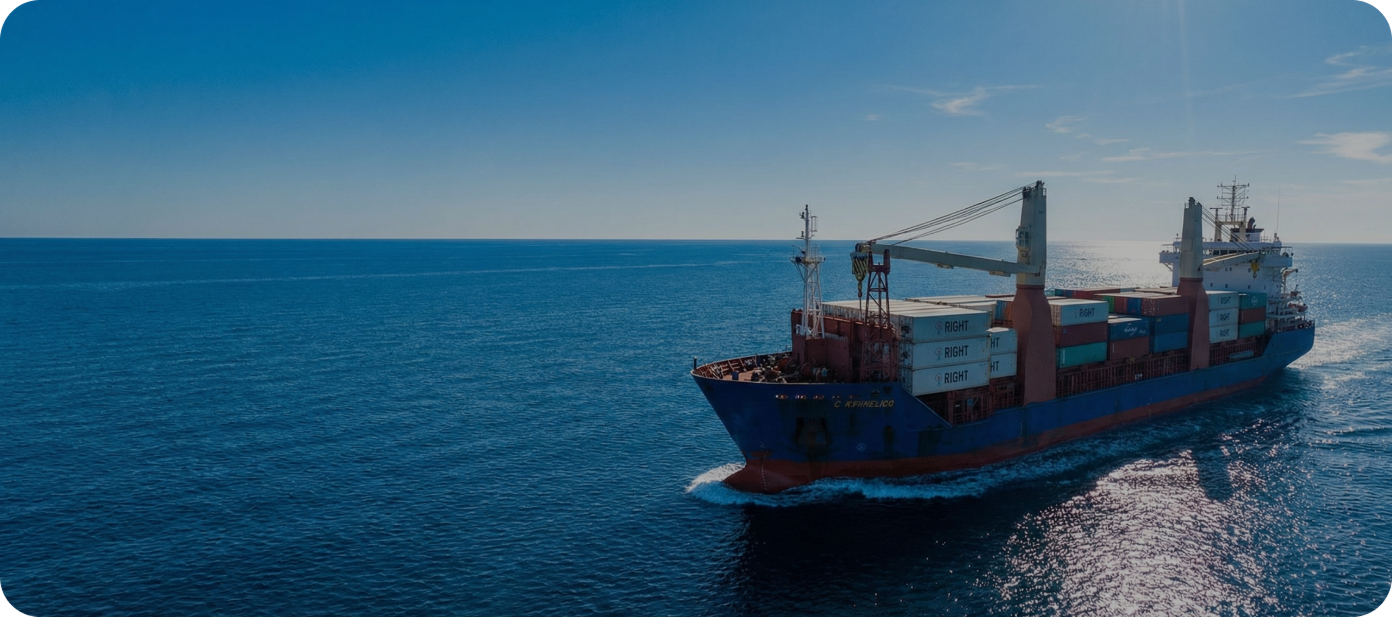
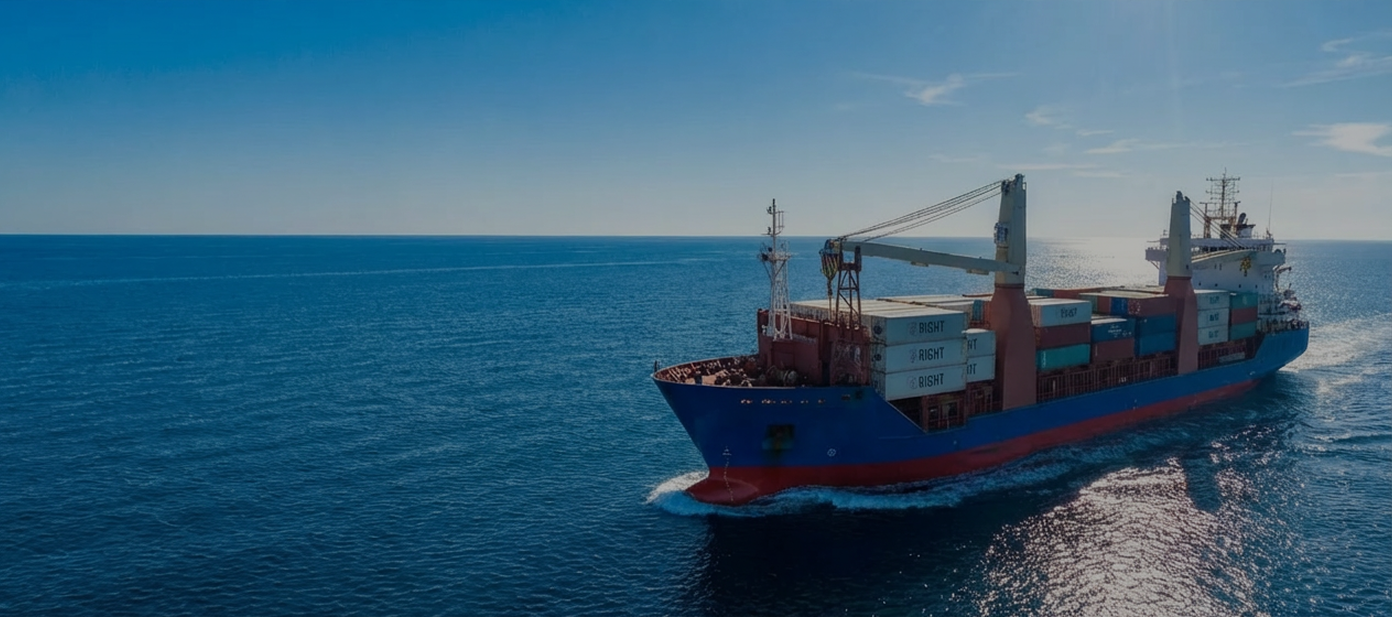
replace about hero image

diff --git a/components/Hero.tsx b/components/Hero.tsx
@@ -7,15 +7,17 @@ const Hero = () => {
   return (
     <section
       id="home"
-      className="relative w-full max-w-[1440px] mx-auto h-[575px] sm:h-[400px] md:h-[500px] lg:h-[550px] xl:h-[617px] flex items-center px-4 md:px-8 lg:px-16 overflow-hidden rounded-[20px] sm:rounded-none"
+      className="relative w-full max-w-[1440px] mx-auto h-[575px] sm:h-[400px] md:h-[500px] lg:h-[550px] xl:h-[617px] flex items-center px-4 md:px-8 lg:px-16 overflow-hidden"
+      style={{ borderRadius: '40px' }}
     >
       {/* Background Image */}
-      <div className="absolute top-0 bottom-0 left-4 right-4 sm:left-6 sm:right-6 z-0 overflow-hidden rounded-[20px] sm:rounded-none">
+      <div className="absolute top-0 bottom-0 left-4 right-4 sm:left-6 sm:right-6 z-0 overflow-hidden" style={{ borderRadius: '40px' }}>
         <SafeImage
           src="/images/hero-ship-sea.png"
           alt="Cargo ship sailing on the sea"
           fill
-          className="object-cover lg:object-contain"
+          className="lg:object-contain"
+          style={{ borderRadius: '40px' }}
           priority
           sizes="100vw"
         />

diff --git a/components/AboutSobek.tsx b/components/AboutSobek.tsx
@@ -28,7 +28,7 @@ const AboutSobek = ({ showImage = true }: AboutSobekProps) => {
                   src="/images/right-line-containers.png"
                   alt="Right Line shipping containers"
                   fill
-                  className="object-contain rounded-lg"
+                  className="object-fill rounded-lg"
                   sizes="(max-width: 768px) 100vw, 50vw"
                 />
               </div>

diff --git a/components/AboutHero.tsx b/components/AboutHero.tsx
@@ -11,7 +11,7 @@ const AboutHero = () => {
           src="/images/about-hero-ship.png"
           alt="Cargo ship sailing on the sea"
           fill
-          className="object-cover w-full h-full"
+          className="object-fill w-full h-full"
           style={{ objectPosition: 'center' }}
           priority
           sizes="100vw"

diff --git a/GODADDY_HOSTING_TYPES.md b/GODADDY_HOSTING_TYPES.md
@@ -146,3 +146,4 @@ The plans you're seeing (Basic/Premium) are **Website Builder** plans - these ar
 - Traditional "Web Hosting" plan with cPanel
 - OR use Vercel (free) and point your GoDaddy domain
 
+

diff --git a/REPLACE_COMING_SOON.md b/REPLACE_COMING_SOON.md
@@ -176,3 +176,4 @@ npm run build
 # Make sure files are directly in public_html, not in a subfolder
 ```
 
+

diff --git a/GODADDY_DEPLOYMENT.md b/GODADDY_DEPLOYMENT.md
@@ -234,3 +234,4 @@ npm start
 3. Update GoDaddy DNS records
 4. Done!
 
+
